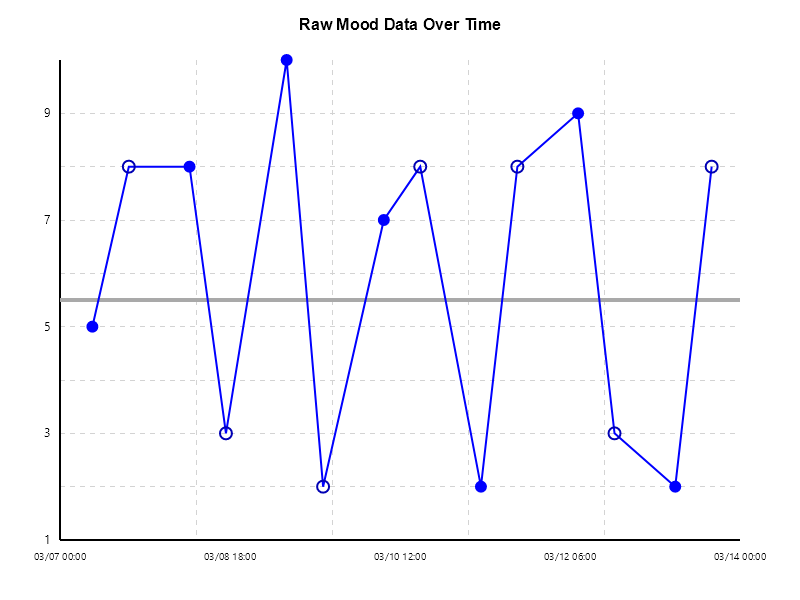
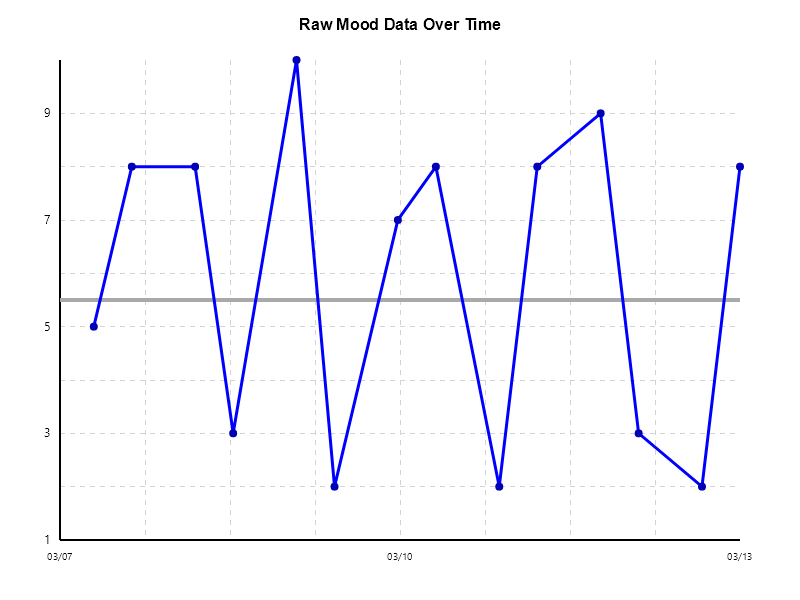
Update LineGraphServiceApprovalTests to use SimpleLineGraphService for generating raw data graphs

diff --git a/WorkMood.MauiApp.Tests/Services/LineGraphServiceApprovalTests.cs b/WorkMood.MauiApp.Tests/Services/LineGraphServiceApprovalTests.cs
@@ -255,8 +255,9 @@ public class LineGraphServiceApprovalTests
         var dateRange = new DateRangeInfo(DateRange.Last7Days, new FakeDateShim(today));
 
         // Act
-        var imageBytes = await _lineGraphService.GenerateRawDataGraphAsync(
-            MoodDataTestHelper.ConvertToRawMoodDataPoints(data),
+        // var imageBytes = await _lineGraphService.GenerateRawDataGraphAsync(
+        var imageBytes = await _simpleLineGraphService.GenerateRawGraphAsync(
+            data,
             dateRange, 
             showDataPoints: true, 
             showAxesAndGrid: true, 
